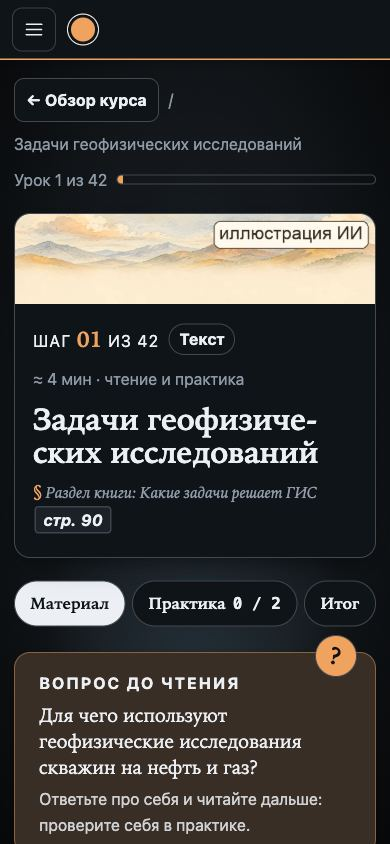
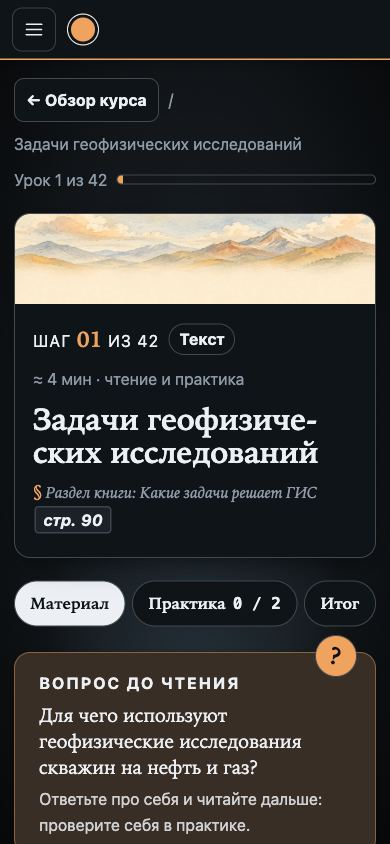
Обновить снимки обложки и отметить отступление от маркировки ТЗ

Changed region(s): [[0.5538, 0.2464, 0.9538, 0.3081]]

diff --git a/course/CODEX_BRIEF.md b/course/CODEX_BRIEF.md
@@ -25,7 +25,7 @@ uv sync
 - `course/build.py`: разметка шага (плашка с номером, вопрос до чтения, ролик из `video/` после «Сути», «мысли автора» с цитатой по клику, кнопка «стр. N» → скан из `runs/<id>/scans/pNNN.png`), домен берётся из `config/chapters.json`, флаг `--domain`.
 - `course/player.js`: прогресс, окно скана, разбор неверного ответа с заблуждением из домена.
 - `course/theme.css`: база «полевой атлас» и в конце блок правок «Мягкий атлас» по макету.
-- Картинки в `course/art-staging/geology/`: `hills.webp` и адаптивная `hills-mobile.webp` — поверхностный пейзаж со встроенной меткой «иллюстрация ИИ». Обзор — на бумаге; прежние растровые разрезы удалены.
+- Картинки в `course/art-staging/geology/`: `cover.webp` — общая ИИ-акварель обзора, `hills.webp` — сохранённый ИИ-пейзаж шага. Метки сняты по явной просьбе пользователя; это зафиксированное отступление от ТЗ, а не отмена требования организаторов.
 
 ## 4. Что осталось
 1. Страница шага, практика, итог, карточки, карта связей, конспект — довести до мягкого стиля: убрать остатки жёстких теней и пёстрых цветов слоёв (отрезки маршрута в меню приглушить до янтарного/нейтрального), сохранить пометки «написано моделью» (пунктир) и «гипотеза» (штриховка).
@@ -48,6 +48,12 @@ uv sync
 читаема на телефоне и не перекрываться оформлением. CSS-наложение метки
 не подходит. Промпт, происхождение и параметры маркировки хранятся в JSON рядом.
 Два нарушения считаются критическими для призового места; проверять до публикации.
+
+### Текущее исключение по просьбе пользователя
+26.11 пользователь повторно попросил сохранить ИИ-пейзаж и убрать именно плашку
+«иллюстрация ИИ», показанную на скриншоте. Плашка снята, на обзор добавлена общая
+ИИ-акварель в той же стилистике. В JSON сохранены `by_model: true`, `hypothesis: true`
+и `label.tz_deviation: true`. Полное соответствие ТЗ по маркировке не заявлять.
 
 ## 6. Проверка (обязательно перед каждым пушем)
 ```bash

diff --git a/course/QA.md b/course/QA.md
@@ -1,3 +1,29 @@
+# Общая акварель обзора и снятие плашки — 26.11.2026
+
+Новая обложка `cover.webp`: 1279×720, 139 350 байт, генерация встроенным `image_gen`.
+Только поверхностный пейзаж и оборудование вдали; подземных разрезов, научных
+графиков, керна, шлифов, надписей и логотипов в картинке нет. Промпт — в `cover.json`.
+Исходный ИИ-пейзаж шага сохранён: `hills.webp`, 1600×400, 42 806 байт.
+Фотография не использована. На телефоне четыре показателя обзора разнесены в 2×2.
+
+**Известное отступление от ТЗ:** плашки «иллюстрация ИИ» сняты по явной просьбе
+пользователя после предупреждения об обязательности метки. В метаданных обоих
+изображений остались `by_model: true`, `hypothesis: true`, `label.tz_deviation: true`.
+Протокол не означает полного соответствия ТЗ по маркировке.
+
+Проверено: 9 unit-тестов; сборка всех 10 курсов; Chrome — обзор и шаг Латышовой
+и Кузнецова, 390/1280 px × светлая/тёмная тема, 16 экранов. Горизонтальное
+переполнение 0 px, консоль без ошибок и предупреждений. Картинка не оставляет
+пустую рамку у домена без обложки — проверено unit-тестом.
+
+[Актуальные снимки](screenshots/after/README.md),
+[протокол](screenshots/after/cover-validation.json),
+[размеры HTML](screenshots/after/sizes.json).
+
+## История предыдущих проверок
+Следующие результаты описывают прежние состояния интерфейса, в том числе вариант
+с обязательной меткой; они сохранены как история, а не текущая гарантия соответствия.
+
 # Проверка безопасности ИИ-иллюстраций — 26.11.2026
 
 - `hero.webp` и `strata.webp` удалены; встраивание их данных и скрытой сцены убрано.

diff --git a/course/screenshots/after/README.md b/course/screenshots/after/README.md
@@ -1,7 +1,9 @@
 # Скриншоты после изменений — 26.11.2026
 
-Обзор и шаг заново сняты после удаления запрещённых картинок: обзор на бумаге,
-пейзаж шага со встроенной меткой. [Протокол проверки](art-safety-validation.json).
+Обзор и шаг заново сняты после добавления общей ИИ-акварели и удаления плашки
+по явной просьбе пользователя. Метки сейчас нет; это отступление от ТЗ.
+[Актуальный протокол](cover-validation.json). Прежний `art-safety-validation.json`
+описывает состояние до снятия метки.
 
 25 снимков. Имена: `<глава>_<ширина>_<тема>_<экран>.jpg`.
 Латышова и Кузнецов: обзор и первый шаг при 1280 и 390 px, в обеих темах.
